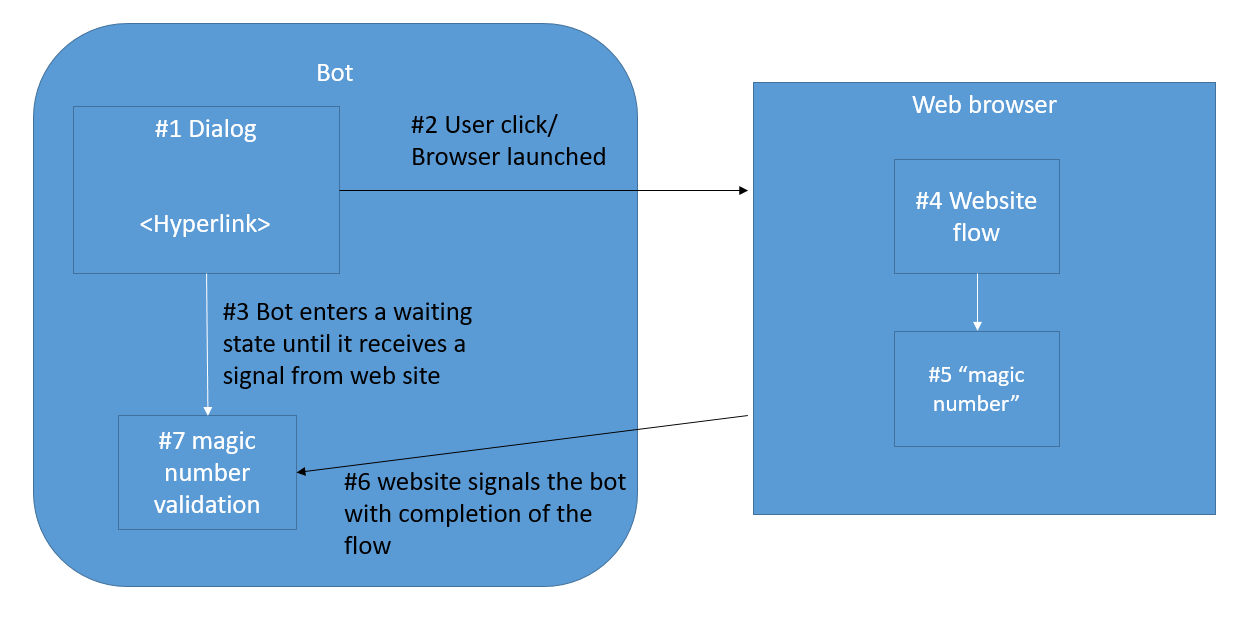
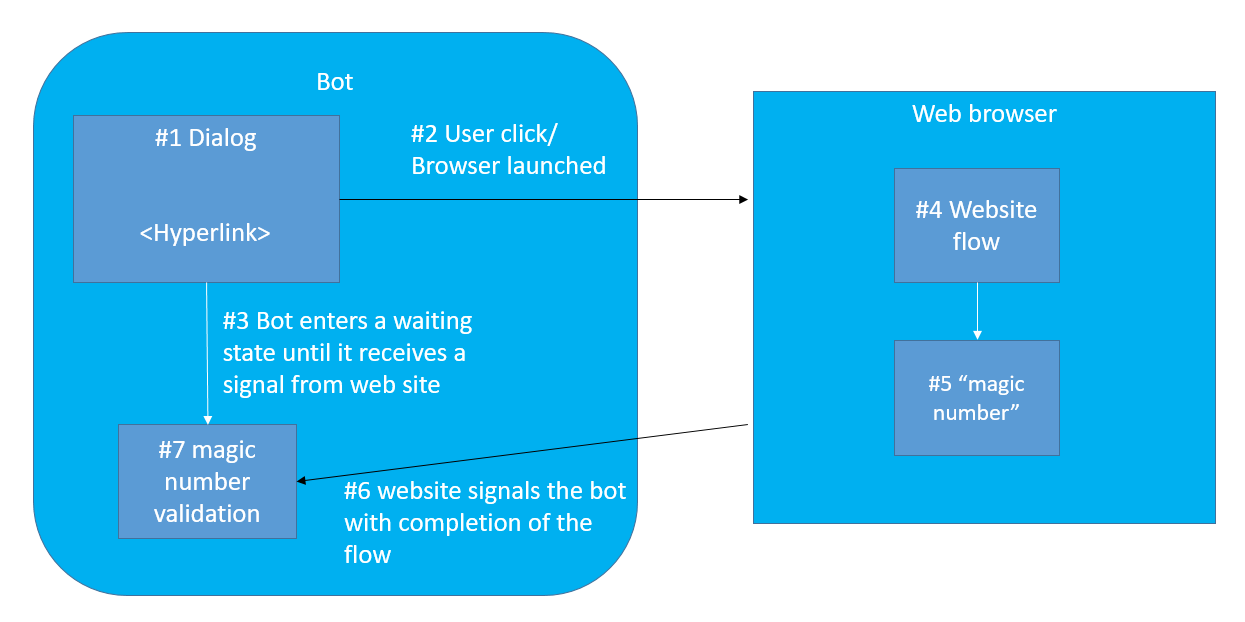
fixed colors

diff --git a/articles/designing-bots/capabilities/task.md b/articles/designing-bots/capabilities/task.md
@@ -28,13 +28,13 @@ We have previously discussed how bots can leverage elements such as rich user co
 ##Hang on: A chatbot that can't have a conversation? Nonsense! 
 
 
-Let us look at one theoretical scenario: The Contoso company receives several help desk calls from employees in need to reset their passwords. This is a problem because this overloads their help desk with a ver repeatable task that could very easily be automated. In the meanwhile, other employees with more complex IT problems have to wait on the line to be helped. Contoso would like to streamline the process of helping these employees who need to reset their password and someone suggested that a bot might be the right way to do that.
+Let us look at one theoretical scenario: The Contoso company receives several help desk calls from employees in need to reset their passwords. This is a problem because it overloads their help desk with a very repeatable task that could very easily be automated. In the meanwhile, other employees with more complex IT problems have to wait on the line to get help. Contoso would like to streamline the process of helping these employees who need to reset their password and someone suggested that a bot might be the right way to do that.
 
-John, an experienced developer from Contoso, decided to write a "spec" of how this bot should work. Being an app developer himself, John learned in the past that sometimes it is better to write a simple spec of what the user experience is supposed to be before trying to actually prototype the app. It turns out, that is not far from the truth when it comes to building bots as well, so John decided to give that a try and write a "bot spec document" using Microsoft Word.
+John, an experienced developer from Contoso, decided to write a "spec" of how this bot should work. As an app developer, John learned in the past that sometimes it is better to write a simple spec of what the user experience is supposed to be before trying to actually prototype the app. It turns out, that is not far from the truth when it comes to building bots as well, so John decided to give that a try and write a "bot spec document" using Microsoft Word.
 
 In fact, you can download a [sample of the document John created here](https://trpp24botsamples.visualstudio.com/50bce30d-3609-423a-9337-b61cfbfea88f/_api/_versioncontrol/itemContent?repositoryId=110b267e-57e9-40d3-ba06-86aa2fae937f&path=%2FSpecs%2FSimple+Task+Automation+-+Design+Spec.docx&version=GBmaster&contentOnly=false&__v=5).
 
-After discussing with the team, John realized he needed to define a navigation model, starting from a "RootDialog" where the user can request to reset their password, which would lead to a "ResetPasswordDialog". At that point, the bot will need to ask two pieces of information, which is the user's phone number and then the user's birth date. Again, this is just a theoretical example and sure different companies might apply more robust identity checks before going ahead resetting employees passwords.
+After discussing with the team, John realized he needed to define a navigation model, starting from a "RootDialog" where the users can request to reset their password, which would lead to a "ResetPasswordDialog". At that point, the bot will need to ask two pieces of information, which is the user's phone number and then the user's birth date. Again, this is just a theoretical example and very likely different companies would want apply a variety of more robust identity checks before going ahead resetting employees passwords.
 
 In other words, John realized he needed a navigation map along these lines:
 
